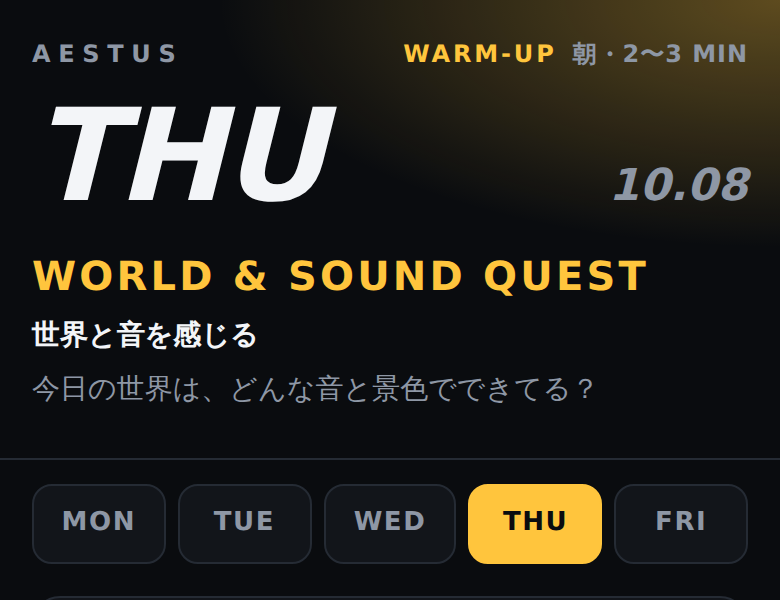
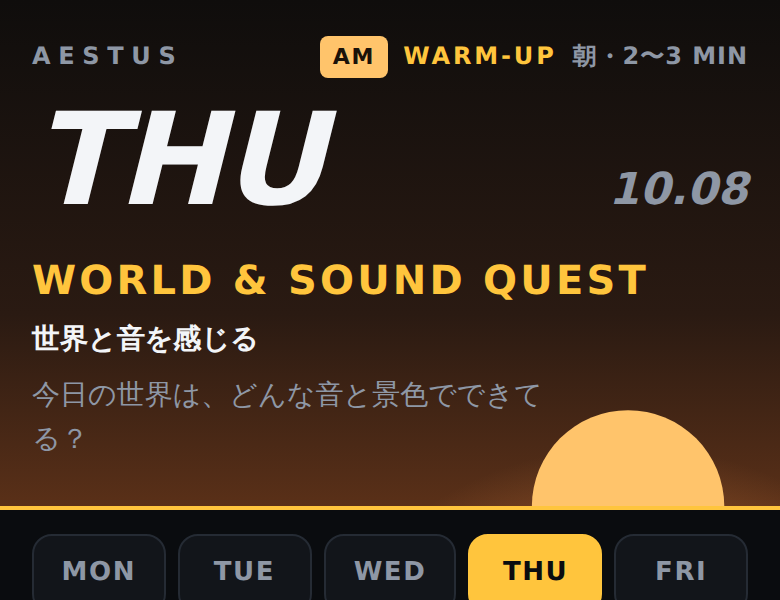
案3の見本：ヒーローで朝と夜を見分けられるようにする
朝は暖色の空と地平線から昇る太陽、夜は紺の空と月と星。ラベルにも AM / PM を付ける。

Claude-Session: https://claude.ai/code/session_01MdnRJeeHdqpjRrkzFFFRgS

diff --git a/web/style.css b/web/style.css
@@ -20,19 +20,25 @@ main { max-width: 560px; margin: 0 auto; padding: 0 0 calc(104px + env(safe-area
 .loading, .error { padding: 48px 16px; text-align: center; color: var(--muted); }
 .error { color: #ff8a8a; }
 
-/* 見出し：装飾は曜日の色のにじみだけ。朝は明るく、夜は沈める */
-.hero { position: relative; overflow: hidden; padding: 18px 16px 22px; border-bottom: 1px solid var(--line);
-  background: radial-gradient(120% 90% at 100% 0%, color-mix(in srgb, var(--accent) 34%, transparent) 0%, transparent 60%), var(--bg); }
-body[data-slot="night"] .hero { background: radial-gradient(120% 90% at 100% 0%, color-mix(in srgb, var(--accent) 14%, transparent) 0%, transparent 60%), var(--bg); }
+/* 見出し：朝は地平線から昇る太陽と暖色の空、夜は月と星と紺の空。曜日の色は文字と線に使う */
+.hero { position: relative; overflow: hidden; padding: 18px 16px 22px; border-bottom: 2px solid var(--accent); }
+body[data-slot="morning"] .hero { background: linear-gradient(180deg, #0f0d0c 0%, #2a1a12 62%, #5a3018 100%); }
+body[data-slot="night"] .hero { background: linear-gradient(180deg, #05070d 0%, #0b1226 60%, #14204a 100%); }
+.hero .sky { position: absolute; inset: 0; width: 100%; height: 100%; pointer-events: none; }
+.hero > :not(.sky) { position: relative; }
+.hero .session b { padding: 2px 6px; border-radius: 4px; font-size: 11px; letter-spacing: .08em; }
+body[data-slot="morning"] .hero .session b { background: #ffc46b; color: #1a1209; }
+body[data-slot="night"] .hero .session b { background: #e9eefc; color: #0b1226; }
 .hero .top { display: flex; justify-content: space-between; align-items: center; gap: 12px; }
 .hero .mark { font-size: 12px; font-weight: 800; letter-spacing: .32em; color: var(--muted); }
-.hero .session { font-size: 12px; font-weight: 800; letter-spacing: .12em; color: var(--accent); display: inline-flex; gap: 8px; align-items: baseline; }
+.hero .session { font-size: 12px; font-weight: 800; letter-spacing: .12em; color: var(--accent); display: inline-flex; gap: 8px; align-items: center; }
 .hero .session i { font-style: normal; font-weight: 600; letter-spacing: .04em; color: var(--muted); }
 .hero .dayline { display: flex; align-items: baseline; justify-content: space-between; margin-top: 14px; }
 .hero .dayline .en { font-size: 64px; line-height: .9; font-weight: 900; font-style: italic; letter-spacing: -.02em; }
 .hero .dayline .date { font-size: 22px; font-weight: 800; font-style: italic; color: var(--muted); font-variant-numeric: tabular-nums; }
 .hero h1 { margin: 12px 0 0; font-size: 20px; font-weight: 800; letter-spacing: .08em; color: var(--accent); }
 .hero .theme { margin: 4px 0 0; font-size: 14px; color: var(--ink); font-weight: 600; }
+.hero .theme { max-width: 74%; }
 .hero .theme span { display: block; margin-top: 6px; font-weight: 400; color: var(--muted); }
 
 .pickers { padding: 12px 16px 0; display: grid; gap: 8px; }
@@ -46,7 +52,7 @@ body[data-slot="night"] .hero { background: radial-gradient(120% 90% at 100% 0%,
 
 form { padding: 4px 16px 0; }
 section { background: var(--surface); border: 1px solid var(--line); border-radius: 14px; padding: 14px; margin-top: 12px; }
-section header { display: flex; gap: 10px; align-items: baseline; }
+section header { display: flex; gap: 10px; align-items: center; }
 section .no { font-size: 12px; font-weight: 800; color: var(--dim); font-variant-numeric: tabular-nums; }
 section .tag { font-size: 11px; font-weight: 800; letter-spacing: .16em; color: var(--accent); }
 section h2 { margin: 4px 0 10px; font-size: 17px; font-weight: 800; }

diff --git a/web/app.js b/web/app.js
@@ -107,8 +107,17 @@
     const kidPick = kids.length > 1
       ? `<div class="who" role="group" aria-label="記録する人">${kids.map((c) => `<button type="button" data-child="${esc(c.id)}" aria-pressed="${c.id === state.child.id}">${esc(c.name)}</button>`).join("")}</div>`
       : "";
+    // 朝と夜は、空の色・記号（地平線から出る太陽／月と星）・ラベルの3つで見分けられるようにする
+    const sky = morning
+      ? `<svg class="sky" viewBox="0 0 400 200" preserveAspectRatio="xMaxYMax slice" aria-hidden="true">
+          <defs><radialGradient id="sun" cx="50%" cy="100%" r="60%"><stop offset="0" stop-color="#ffd27a"/><stop offset=".55" stop-color="#ff9a4d"/><stop offset="1" stop-color="#ff9a4d" stop-opacity="0"/></radialGradient></defs>
+          <circle cx="340" cy="200" r="120" fill="url(#sun)" opacity=".4"/><circle cx="340" cy="200" r="38" fill="#ffc46b"/></svg>`
+      : `<svg class="sky" viewBox="0 0 400 200" preserveAspectRatio="xMaxYMax slice" aria-hidden="true">
+          <g fill="#fff"><circle cx="262" cy="24" r="1.2"/><circle cx="252" cy="96" r="1"/><circle cx="372" cy="150" r="1.2"/><circle cx="236" cy="150" r=".9"/><circle cx="384" cy="34" r=".9"/><circle cx="300" cy="64" r=".8" opacity=".6"/></g>
+          <path d="M352 128a22 22 0 1 0 19 34a18 18 0 1 1-19-34z" fill="#e9eefc"/></svg>`;
     return `<header class="hero">
-      <div class="top"><span class="mark">AESTUS</span><span class="session">${morning ? "WARM-UP" : "COOL-DOWN"}<i>${morning ? "朝" : "夜"}・2〜3 MIN</i></span></div>
+      ${sky}
+      <div class="top"><span class="mark">AESTUS</span><span class="session"><b>${morning ? "AM" : "PM"}</b>${morning ? "WARM-UP" : "COOL-DOWN"}<i>${morning ? "朝" : "夜"}・2〜3 MIN</i></span></div>
       <div class="dayline"><span class="en">${DAY_EN[state.day]}</span><span class="date">${state.date.slice(5).replace("-", ".")}</span></div>
       <h1>${esc(d.name)}</h1>
       <p class="theme">${esc(d.theme)}${d.question ? `<span>${esc(d.question)}</span>` : ""}</p>
